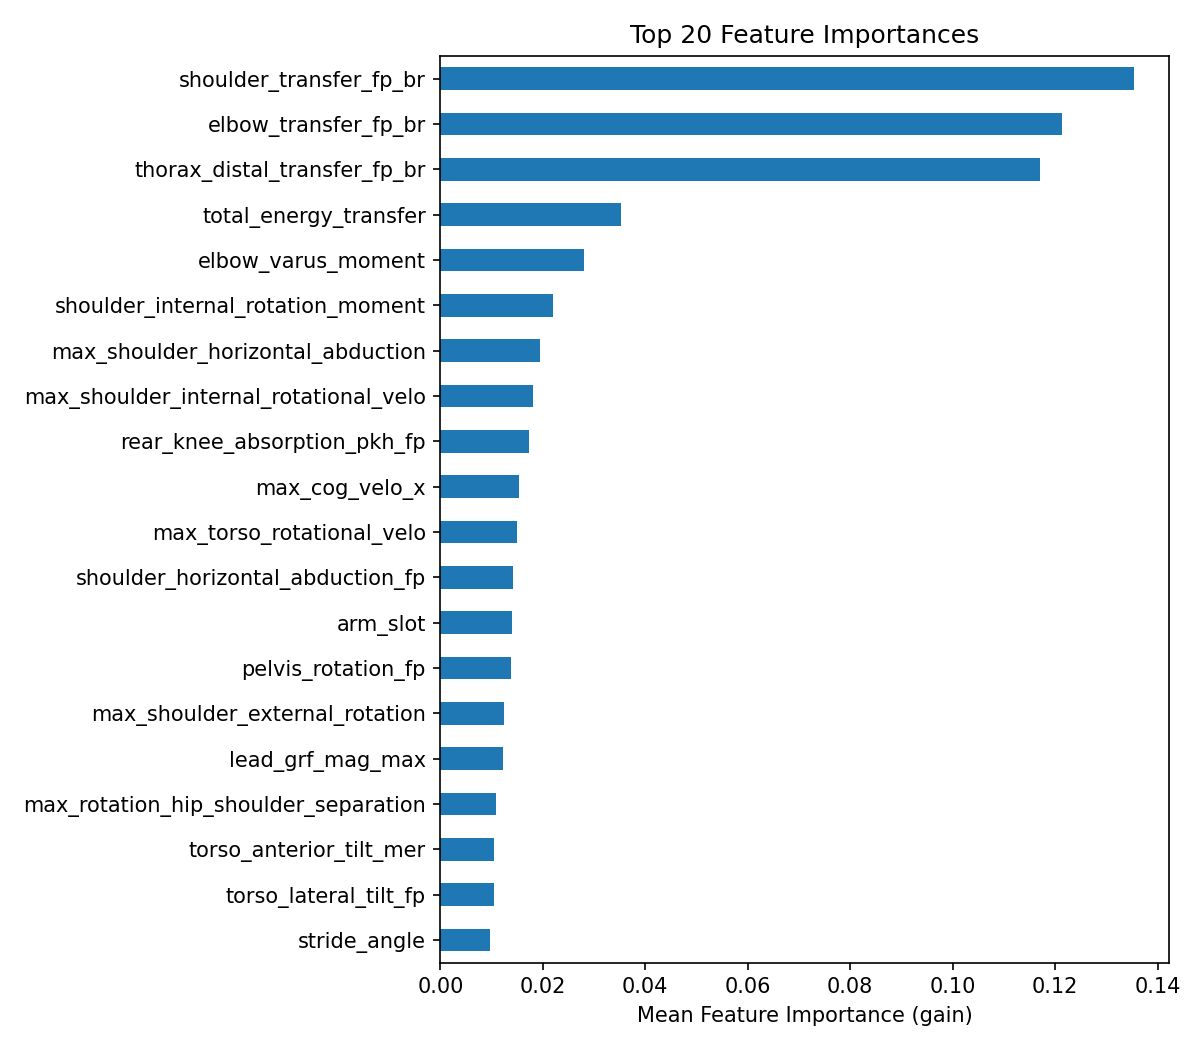
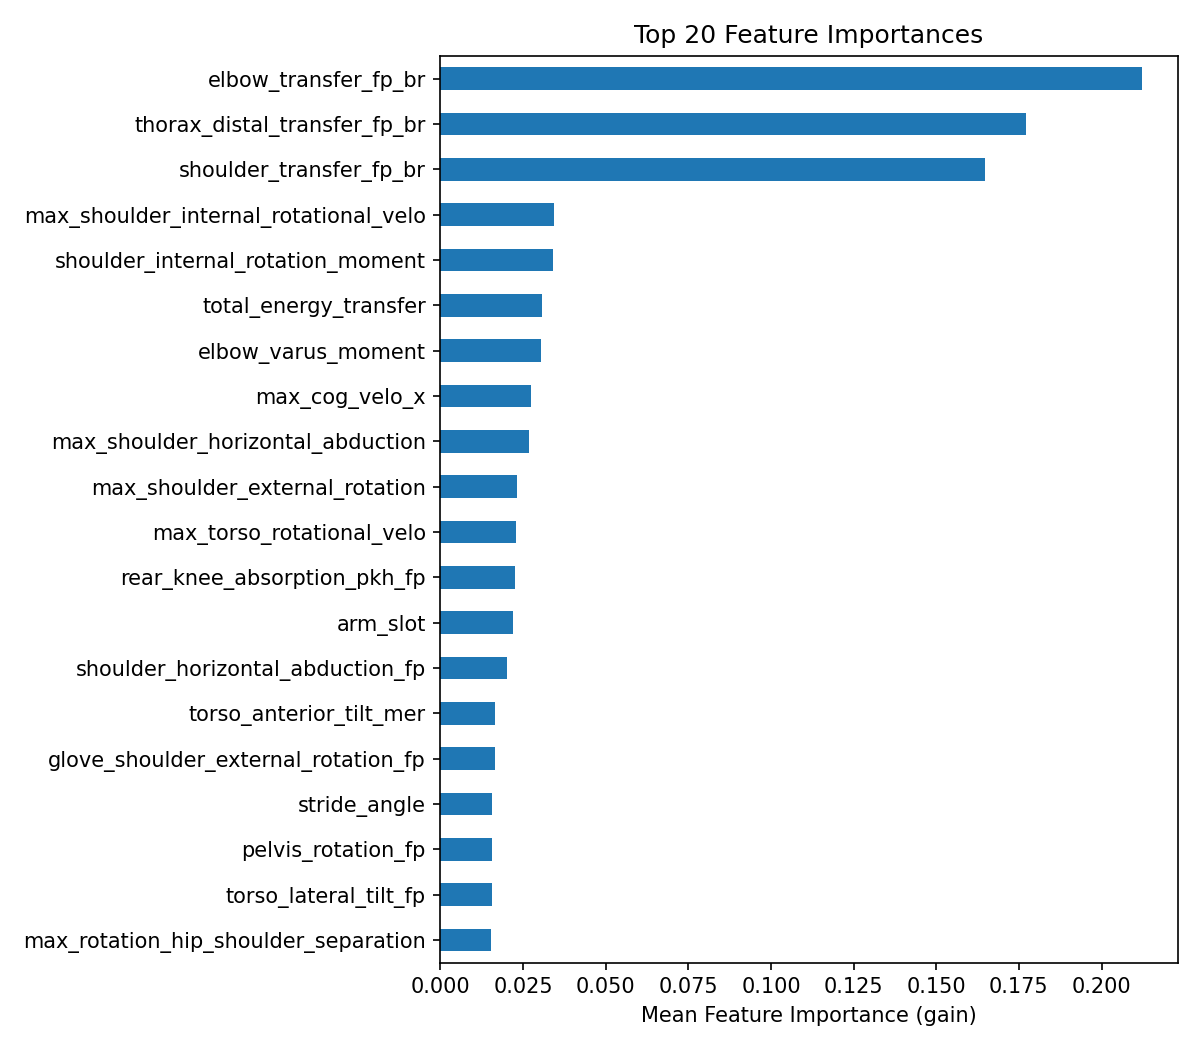
Two-pass feature selection: top 25 features from first pass
First-pass quick XGB identifies top 25 features, second pass trains
on selected features only. Reduces noise dramatically.

Result: {"status":"keep","r2":0.567819,"rmse":3.097651}

diff --git a/train.py b/train.py
@@ -64,13 +64,38 @@ def load_data():
     return X, y, groups
 
 
+TOP_N_FEATURES = 25  # Keep top N features from first-pass importance
+
+
+def select_features(X, y, groups):
+    """First pass: quick model to rank features by importance."""
+    gkf = GroupKFold(n_splits=N_FOLDS)
+    fold_importances = []
+    quick_params = {**XGB_PARAMS, "n_estimators": 200, "early_stopping_rounds": 20}
+
+    for train_idx, val_idx in gkf.split(X, y, groups):
+        model = xgb.XGBRegressor(**quick_params)
+        model.fit(X.iloc[train_idx], y[train_idx],
+                  eval_set=[(X.iloc[val_idx], y[val_idx])], verbose=False)
+        fold_importances.append(
+            pd.Series(model.feature_importances_, index=X.columns)
+        )
+
+    avg_imp = pd.concat(fold_importances, axis=1).mean(axis=1).sort_values(ascending=False)
+    return avg_imp.head(TOP_N_FEATURES).index.tolist(), avg_imp
+
+
 def cross_validate(X, y, groups):
+    # Feature selection first pass
+    top_features, full_importance = select_features(X, y, groups)
+    X_selected = X[top_features]
+
     gkf = GroupKFold(n_splits=N_FOLDS)
     oof_preds = np.zeros(len(y))
     fold_importances = []
 
-    for fold, (train_idx, val_idx) in enumerate(gkf.split(X, y, groups)):
-        X_train, X_val = X.iloc[train_idx], X.iloc[val_idx]
+    for fold, (train_idx, val_idx) in enumerate(gkf.split(X_selected, y, groups)):
+        X_train, X_val = X_selected.iloc[train_idx], X_selected.iloc[val_idx]
         y_train, y_val = y[train_idx], y[val_idx]
 
         model = xgb.XGBRegressor(**XGB_PARAMS)
@@ -78,7 +103,7 @@ def cross_validate(X, y, groups):
 
         oof_preds[val_idx] = model.predict(X_val)
         fold_importances.append(
-            pd.Series(model.feature_importances_, index=X.columns)
+            pd.Series(model.feature_importances_, index=X_selected.columns)
         )
 
     rmse = np.sqrt(mean_squared_error(y, oof_preds))
